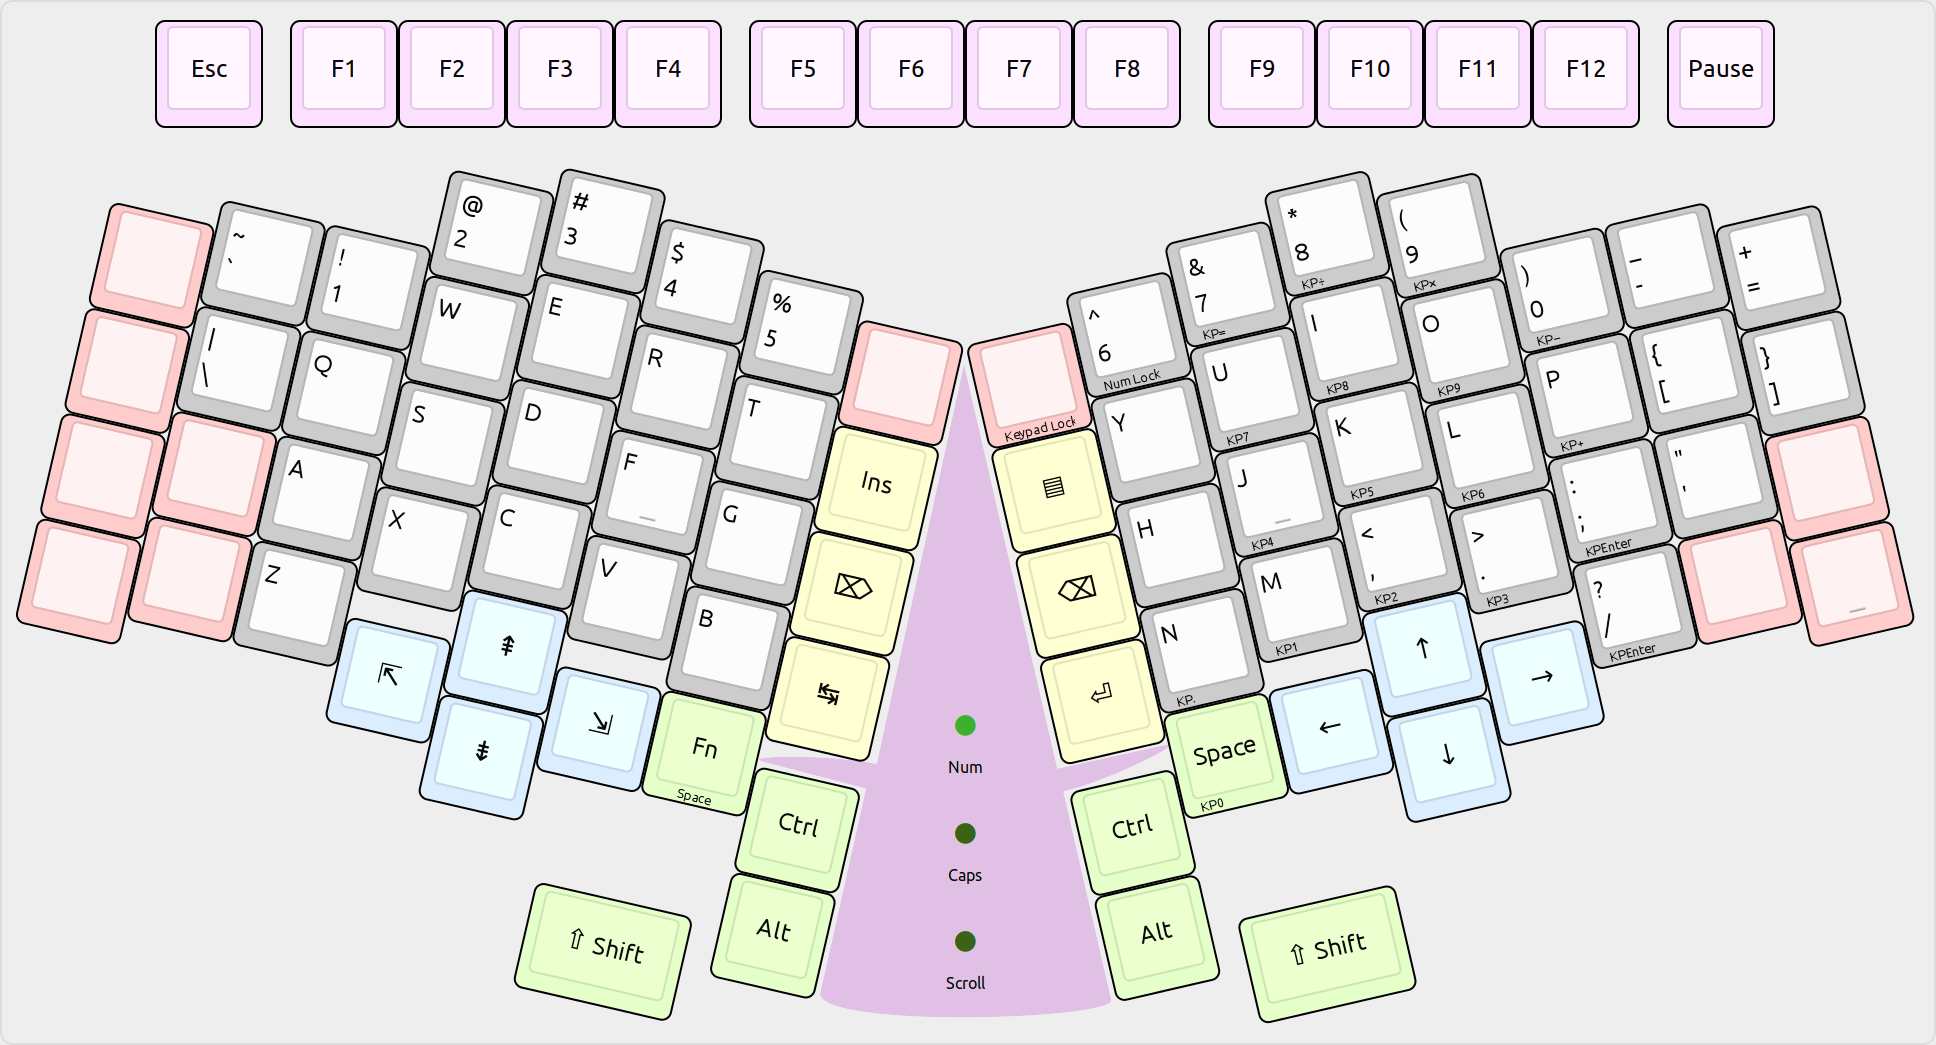
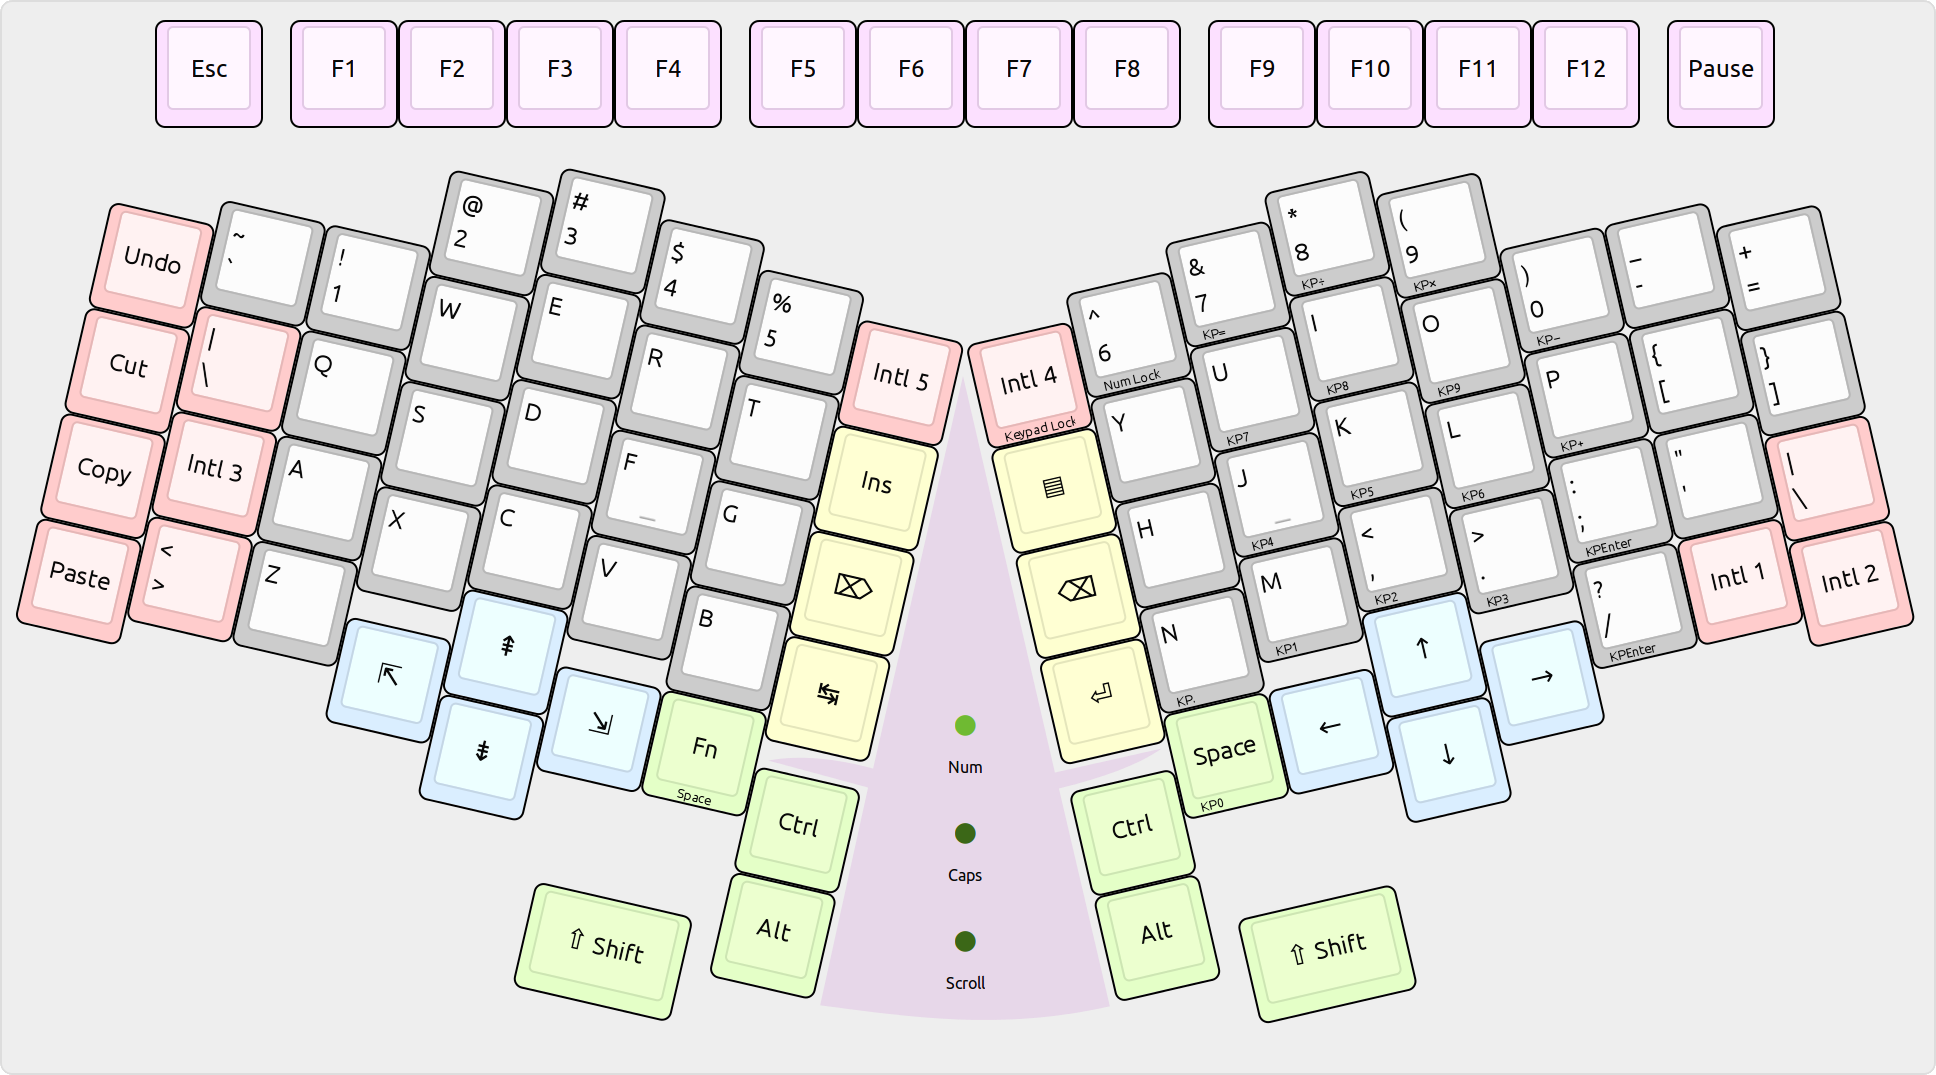
doc: Rewrite 02-layout

Changed region(s): [[0.0, 0.1531, 0.9917, 0.9799], [0.093, 0.0612, 0.9298, 0.1225]]

diff --git a/docs/content/02-layout.md b/docs/content/02-layout.md
@@ -1,59 +1,90 @@
 Title: Layout
 Date: 2016-12-10T14:00Z
-Summary: Function keys, navigation, thumb clusters, extra keys, fixed split, column stagger.
+Summary: Column-staggered, fixed split tenkeyless layout with thumb arcs.
 
-Here is the overall layout of Purple Tentacle, with various key groups
-highlighted.
+Here is the physical layout of Purple Tentacle,
+with various key groups highlighted.
+The default keymap is shown;
+you will be able to customize it.
 
-![]({filename}/images/02-layout/layout.png)
+[![]({filename}images/02-layout/layout.png)][source]
 
-On the top edge, you have the classic row of function keys, in groups
-of four.
+[source]: http://www.keyboard-layout-editor.com/#/gists/0eb51054919d0ed51396cbd71c97c7d0
 
-The main area is split into two halves, with a fixed 26° angle between
-them. (This provides the ergonomic advantages of a split keyboard
-while keeping the case design easy and without having to invent a way
-to interconnect the halves.)
+(Forking note:
+the Corresponding Source for this image
+is available [online][source].)
 
-The layout features navigation keys, arranged in diamond shapes and
-positioned in the index–middle–ring finger columns. They are easily
-accessible without moving the wrist.
+The main area is split into two halves,
+with a fixed 26° angle between them.
+(This provides the ergonomic advantages
+of a split keyboard
+while keeping the case design simple.)
 
-Each half has three thumb keys and one key for the base of the thumb.
-The <kbd>Shift</kbd>, <kbd>Ctrl</kbd> and <kbd>Alt</kbd> arrangement
-makes it possible to press two modifiers simultaneously with one thumb
-while leaving the other fingers in their home position.
+Keys in the main area are arranged in straight columns,
+which are staggered in accordance with finger lengths.
 
-The additional column of keys in the middle, pressed by the index
-fingers, accommodates the most frequently used editing keys:
-<kbd>Backspace</kbd>, <kbd>Enter</kbd>, <kbd>Tab</kbd>,
-<kbd>Delete</kbd>, and more rare but still occasionally useful
-<kbd>Insert</kbd> and <kbd>Menu</kbd> keys.
+There are eight columns in each half;
+the home position spans four columns in the middle.
+Two additional outside columns are provided for the pinky,
+and two inside columns for the index finger.
+(This is in contrast
+to the conventional non-split layout,
+which has only two inside columns,
+one outside column on the left
+and three to four outside columns on the right,
+overworking the right pinky.)
 
-Holding down the left Space (<kbd>Fn</kbd>) key turns the right half
-into a keypad. Note that the home row corresponds to digits 4, 5, and
-6, the same as on a real keypad. Pressing <kbd>Fn</kbd>+<kbd>Keypad
-Lock</kbd> locks this mode, for the rare case when you need to enter a
-bunch of numbers without needing any letters.
+The default keymap
+moves the most frequently used editing keys —
+<kbd>Backspace</kbd>,
+<kbd>Enter</kbd>,
+<kbd>Tab</kbd>,
+and <kbd>Delete</kbd>
+(highlighted in yellow) — to the inside columns,
+and duplicates one punctuation key
+(US <kbd>\|</kbd>, or UK <kbd>#~</kbd>)
+on the left hand.
 
-Lastly, there are several spare keys for experimentation. Use these
-for anything you can think of. Ideas include:
+This leaves several spare keys for user experimentation
+(highlighted in red).
+The default keymap assigns them
+in a way that tries to accommodate most national layouts
+out of the box.
+However, if you create a keymap
+that is substantially better
+for a particular language,
+please [send a pull request][pull]!
 
-* Any classic keys you need (<kbd>Print Screen</kbd>, <kbd>Scroll
-  Lock</kbd>, <kbd>Caps Lock</kbd>, or <kbd>Win</kbd>)
-* <kbd>Undo</kbd>, <kbd>Cut</kbd>, <kbd>Copy</kbd> and
-  <kbd>Paste</kbd> down the leftmost column
-* The ISO backslash key
-* Additional input method-specific keys for East Asian languages
-* Macros
+[pull]: https://github.com/yurikhan/purple-tentacle/pulls
 
-Actually, thanks to the TMK Keyboard Firmware, all keys are
-customizable. All of the above is only a recommendation.
+Apart for the main area,
+the layout includes:
 
-The triangular shape in the middle, highlighted in purple, with the
-green status LEDs, resembles a character from Day of the Tentacle, a
-1993 video game. This is what the keyboard is named after.
-(@Lucasfilm: If you feel this infringes your trademark, please
-[file an issue][issues].)
+* Function keys on the top,
+  in groups of four
+  (highlighted in purple).
+  This grouping aids in finding them by touch.
+* Two diamond-shape navigation clusters,
+  positioned in the index–middle–ring finger columns
+  and accessible without moving the wrist
+  (highlighted in blue).
+* Three keys for each thumb
+  and two keys to be pressed with the base of the thumbs
+  (highlighted in green).
+  Arranging modifiers as shown above
+  makes it possible to press two modifiers
+  simultaneously with one thumb
+  while leaving the other fingers in their home position.
+
+The triangular shape in the middle,
+highlighted in purple,
+with the green status LEDs,
+resembles a character from Day of the Tentacle,
+a 1993 video game.
+This is what the keyboard is named after.
+(@Lucasfilm:
+If you feel this infringes your trademark,
+please [file an issue][issues].)
 
 [issues]: https://github.com/yurikhan/purple-tentacle/issues
